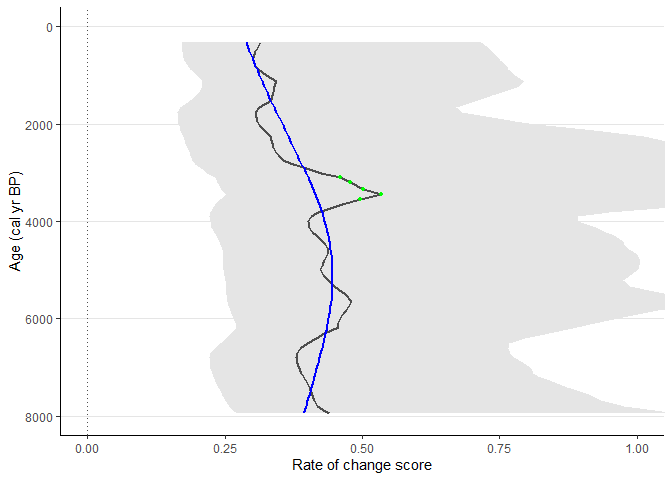
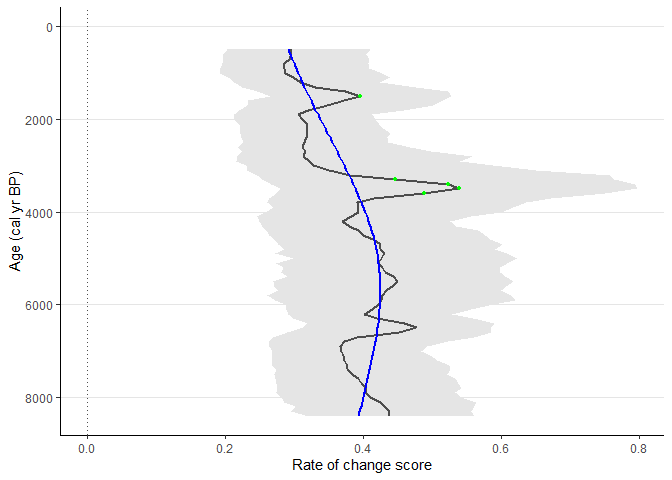
New knit of README with changes in the figure axis

diff --git a/README.md b/README.md
@@ -212,9 +212,9 @@ to focus on the period of most substantial human impact.
     #> $ collection.handle <chr> "DALLICAN", "STEERMOS", "KILOALA", "GL"
     #> $ lat               <dbl> 60.38736, 47.80567, 67.96611, 53.00735
     #> $ long              <dbl> -1.096480, 8.200150, 20.460278, -6.348035
-    #> $ pollen_data       <list> [<tbl_df[63 x 51]>, <tbl_df[273 x 104]>, <tbl_df...
-    #> $ sample_age        <named list> [<data.frame[63 x 3]>, <data.frame[273 x 3...
-    #> $ age_uncertainty   <named list> [<matrix[1000 x 63]>, <matrix[1000 x 273]>...
+    #> $ pollen_data       <list> [<tbl_df[63 x 51]>], [<tbl_df[273 x 104]>], [<tbl_df~
+    #> $ sample_age        <named list> [<data.frame[63 x 3]>], [<data.frame[273 x 3]>], [<d~
+    #> $ age_uncertainty   <named list> <<matrix[1000 x 63]>>, <<matrix[1000 x 273]>>, <<mat~
 
     example_data %>%
       ggplot2::ggplot(
@@ -258,7 +258,7 @@ uncertainties from *Bchron* will not be used.
         standardise = FALSE,
         rand = 1)
 
-    RRatepol::fc_plot_RoC_sequence(sequence_01, age_threshold = 8e3, Roc_threshold = 0.5, Peaks = F, trend = F)
+    RRatepol::fc_plot_RoC_sequence(sequence_01, Peaks = F, trend = F)
 
 ![](man/figures/README-plot_1-1.png)
 
@@ -284,8 +284,6 @@ This will produce error *wrapper* showing 95th percent quantile.
 
     RRatepol::fc_plot_RoC_sequence(
       data_source = sequence_02,
-      age_threshold = 8e3,
-      Roc_threshold = 2.5,
       Peaks = FALSE,
       trend = FALSE)
 
@@ -313,8 +311,6 @@ Use *Binning with the mowing window* approach with `bin_size` = 500 and
 
     RRatepol::fc_plot_RoC_sequence(
       data_source = sequence_03,
-      age_threshold = 8e3,
-      Roc_threshold = 1.5,
       Peaks = FALSE,
       trend = FALSE)
 
@@ -331,8 +327,6 @@ Detect the *peak points* using *trend\_non\_linear* method.
 
     RRatepol::fc_plot_RoC_sequence(
       data_source = sequence_03_peaks,
-      age_threshold= 8e3,
-      Roc_threshold = 1,
       Peaks = TRUE,
       trend = "trend_non_linear")
 
@@ -362,8 +356,8 @@ Prentice, I.C., 1980. Multidimensional scaling as a research tool in
 Quaternary palynology: A review of theory and methods. Rev. Palaeobot.
 Palynol. 31, 71–104. <https://doi.org/10.1016/0034-6667(80)90023-8>
 
-Simpson, G.L., 2019. gratia: graceful’ggplot’‐based graphics and other
-functions for GAMs fitted using “mgcv.” R Packag. version 0.2‐1.
+Simpson, G.L., 2019. gratia: graceful’ggplot’–based graphics and other
+functions for GAMs fitted using “mgcv.” R Packag. version 0.2–1.
 
 Simpson, G.L., 2018. Modelling palaeoecological time series using
 generalised additive models. Front. Ecol. Evol. 6, 1–21.
